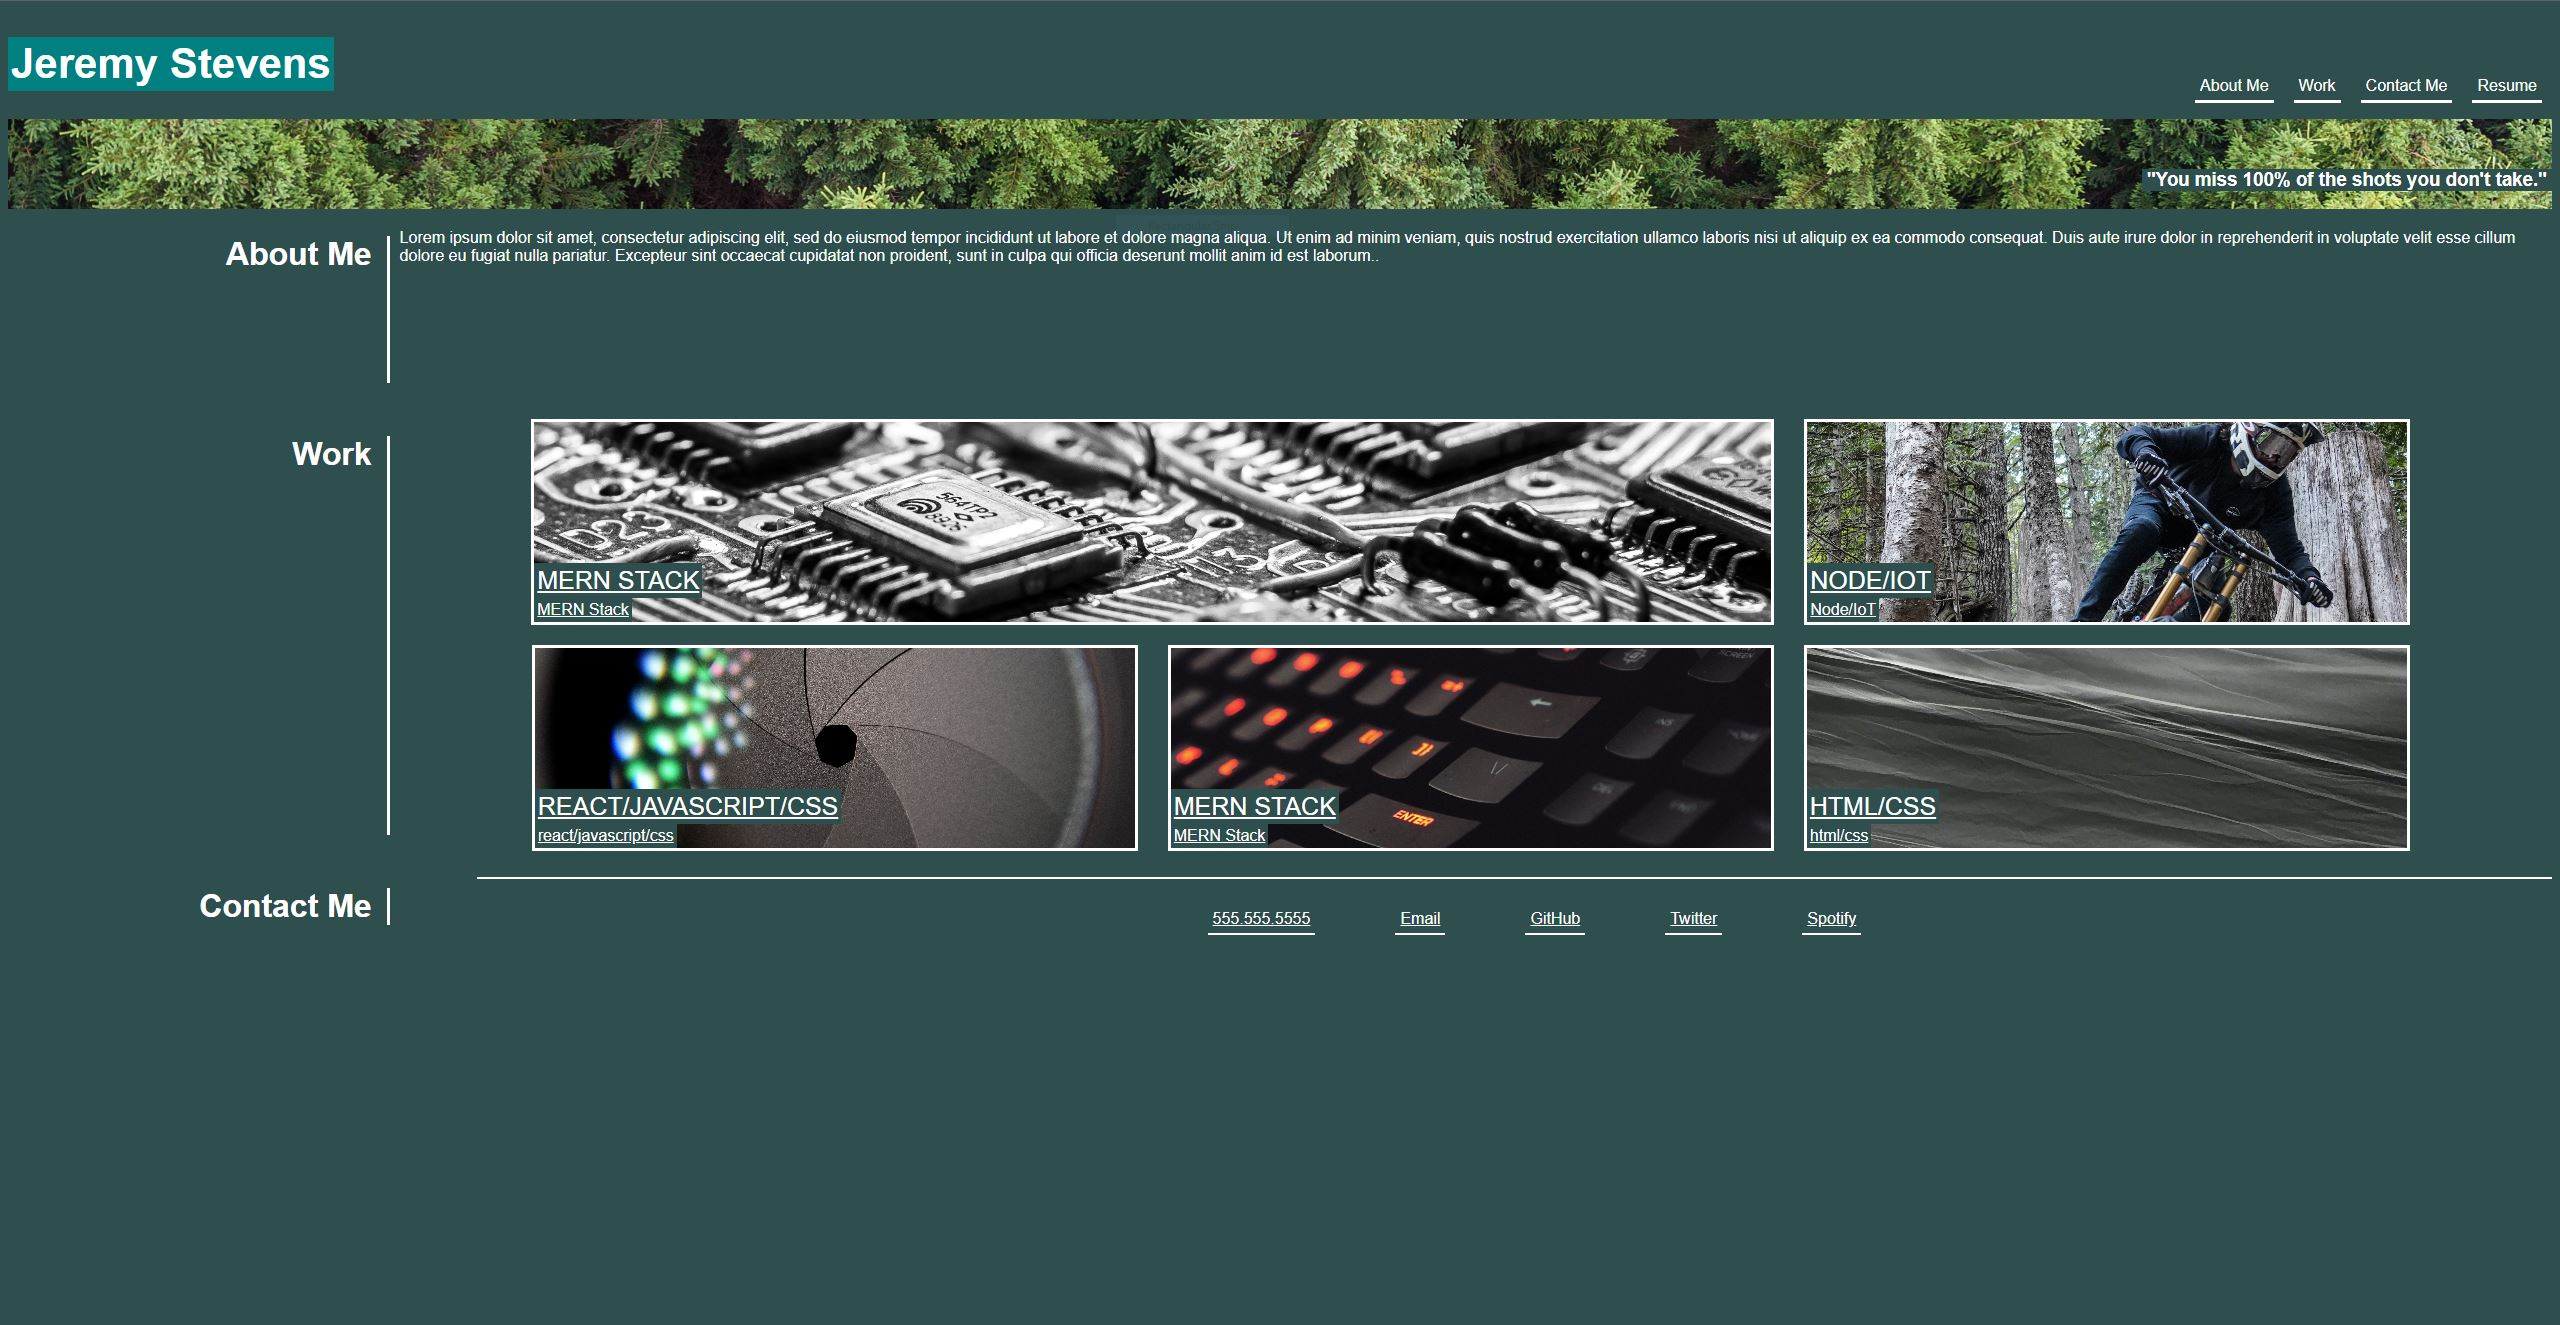
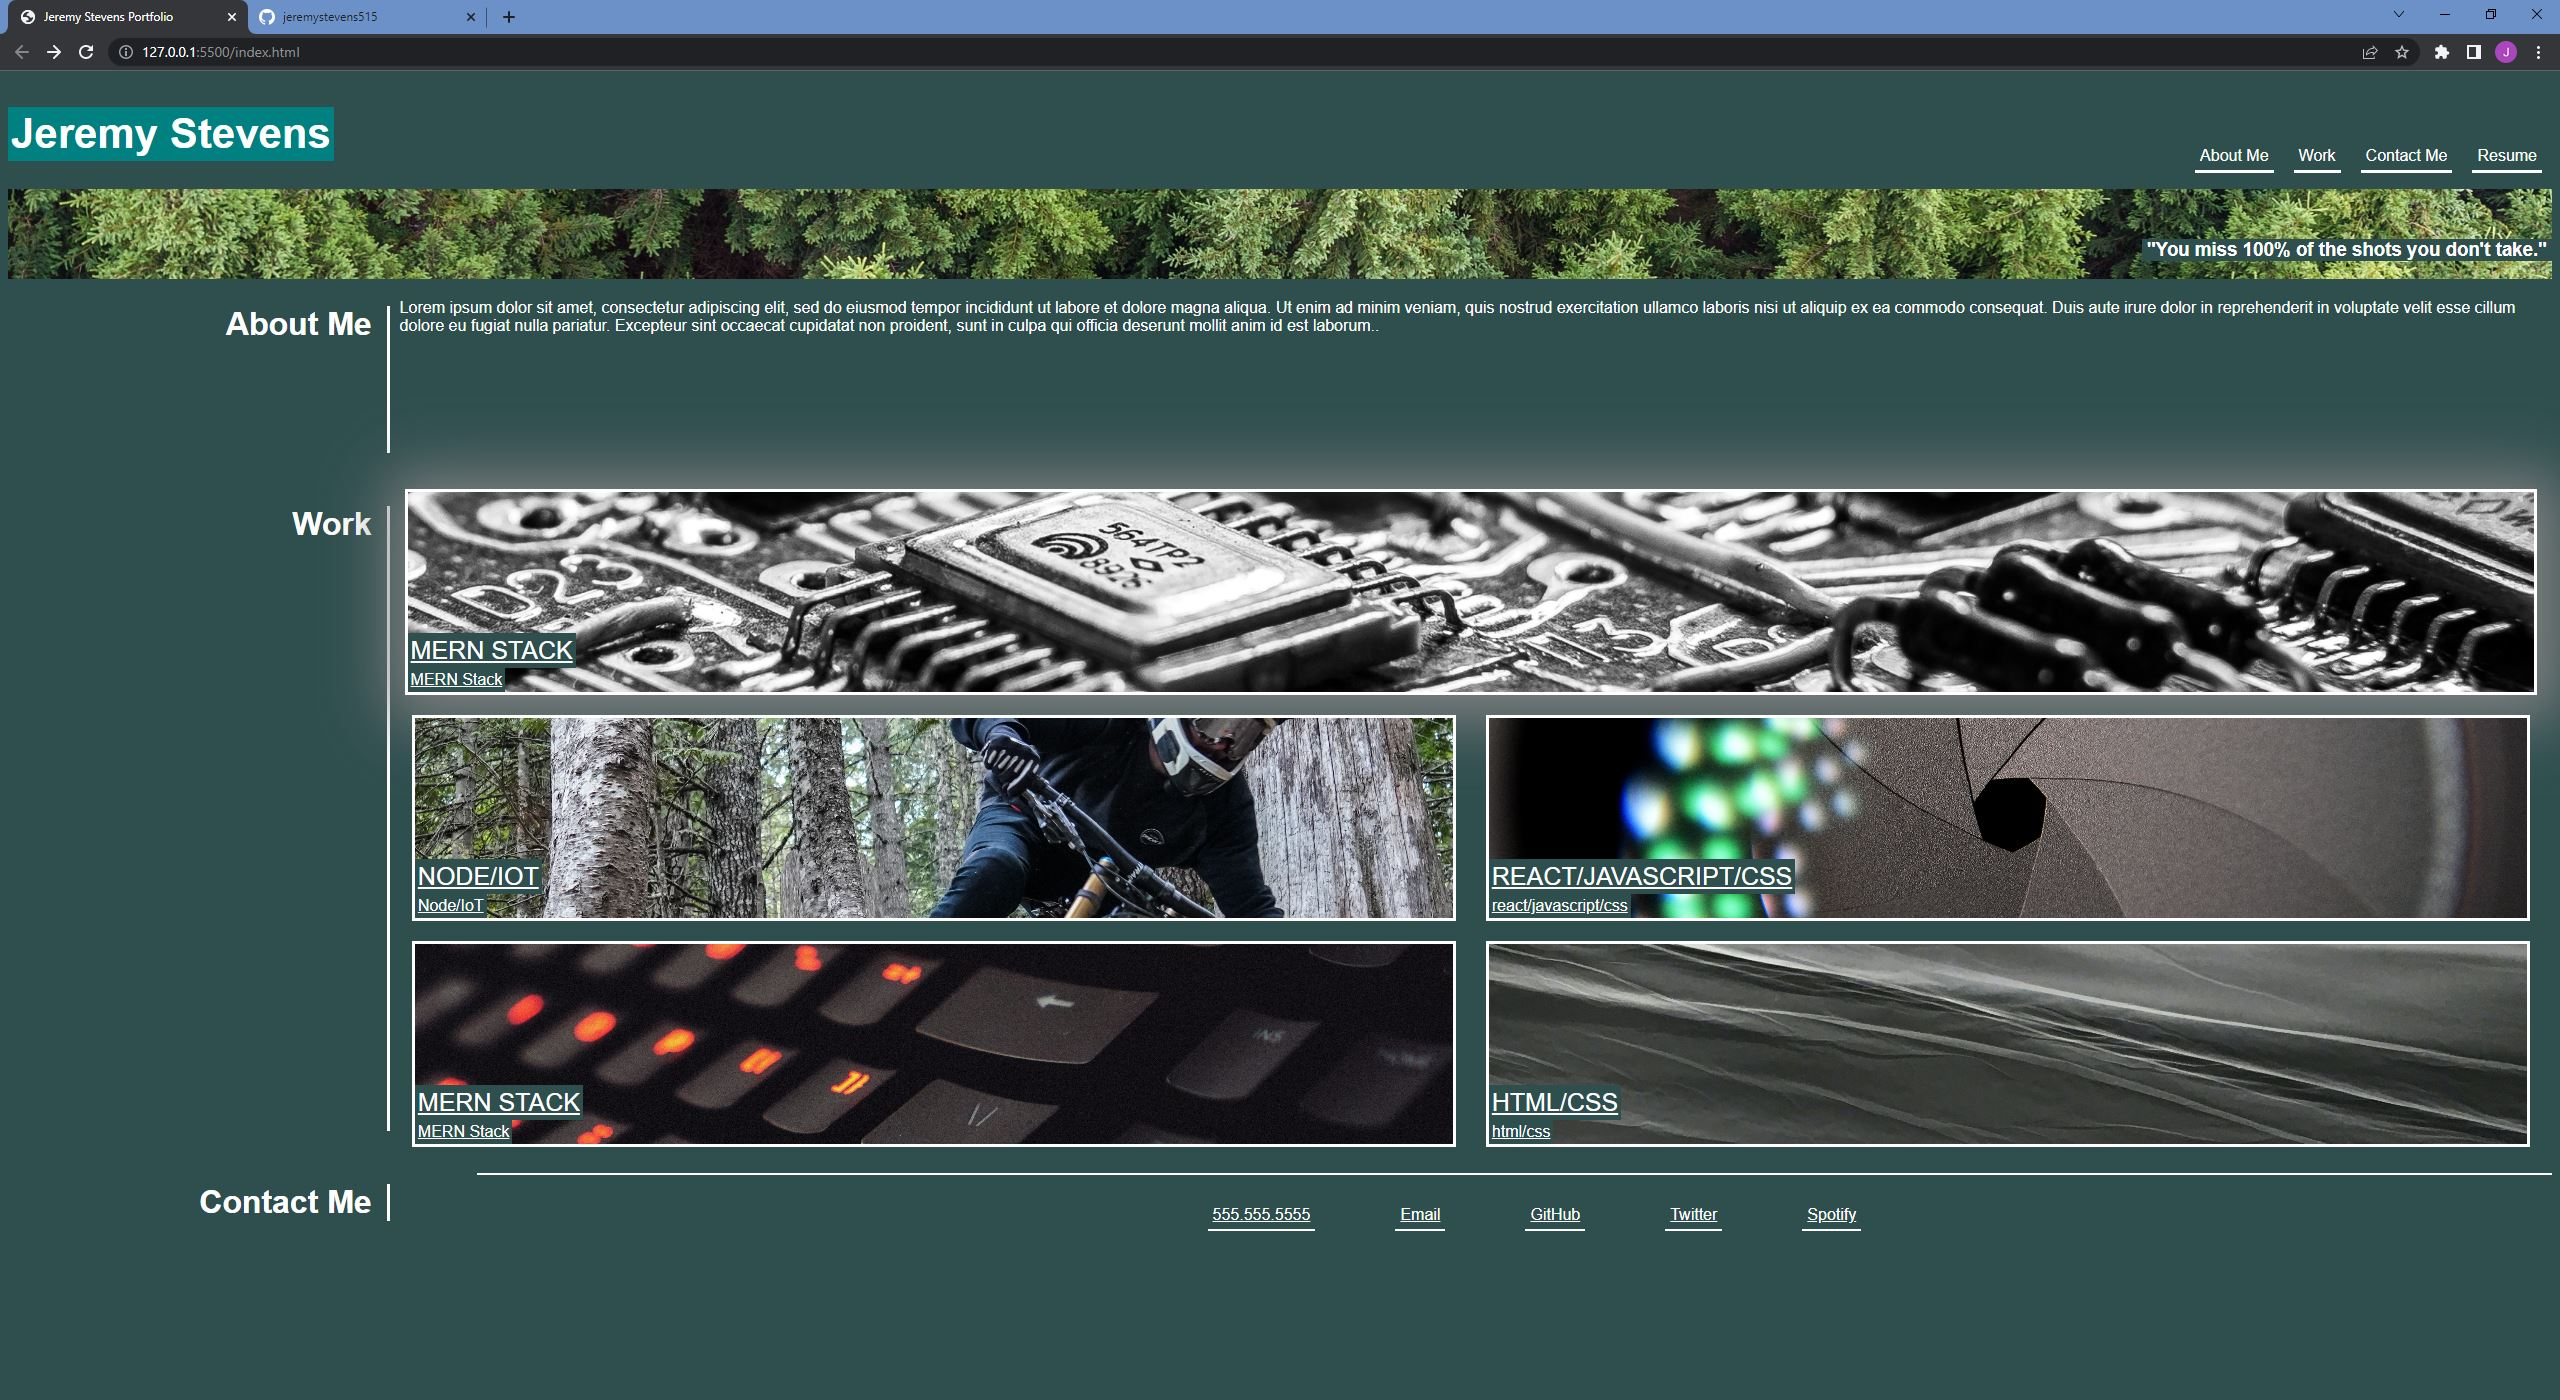
fixed work section image sizing to fit the requirements for the assignment

diff --git a/assets/style.css b/assets/style.css
@@ -144,14 +144,14 @@ main {
             flex-flow: column wrap;
             justify-content: flex-end;
             align-items: flex-start;
-            flex: 0 1 600px;
+            flex: 0 1 48%;
             min-height: 200px;
             border: 3px solid white;
             margin: 10px 15px;
         }
 
             #work-big {
-                flex: 0 1 1237px;
+                flex: 0 1 100%;
                 min-height: 200px;
                 background-image: url(/assets/microchip.jpg);
                 background-position: 75% 63%;

diff --git a/README.md b/README.md
@@ -5,4 +5,9 @@
 This purpose of this project is to create a sample portfolio website for Challenge 02 for the GA Tech Coding Bootcamp. This website is deisgned to demonstrate my ability to structure a website using CSS properties. This webpage showcases the flexbox model and pseudo class selectors to improve the user experience. As an essential feature of flexbox functionality, the content scales according to the users screen size. Additionally, when the user hovers over elements within the 'work' section, feedback is given via a change in pointer style and shadows around the boxes. The navigation links at the top of the screen take the user to the specified section of the webpage, and the links attached to the images and footer take the user to my github page.
 
 ## Screenshot
+
 ![screenshot](/assets/sample-portfolio-screenshot.jpg)
+
+## Deployment
+
+https://jeremystevens515.github.io/sample-portfolio/
